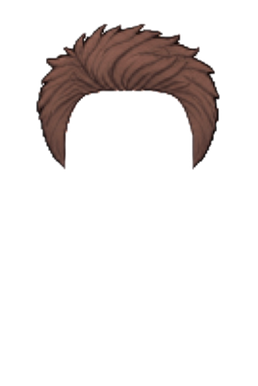
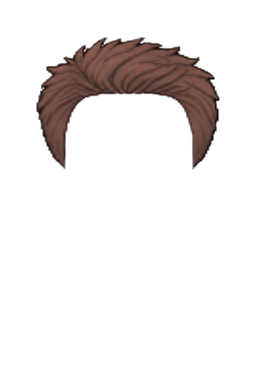
헤어 정수리 높이를 양 갈래 웨이브에 맞춤 (똥머리·모자·까까머리·모히칸 빼고, 이마 위만 늘이거나 줄여 얼굴 둘레는 그대로)
Claude-Session: https://claude.ai/code/session_015VxnKS3baGbwJXJNNp74ix

Changed region(s): [[0.155, 0.0622, 0.8682, 0.2798], [0.124, 0.2487, 0.155, 0.2798]]

diff --git a/avatar.js b/avatar.js
@@ -37,7 +37,7 @@ const AV_REQ = { pet: "pet-0", shoes: "shoes-1", eye: "eye-0", mouth: "mouth-0",
 const AV_ACC = []; // 장신구 칸 (아직 없음)
 const AV_TABS = [["eye", "눈"], ["mouth", "입"], ["cheek", "볼터치"], ["hair", "헤어"], ["top", "상의"], ["bottom", "하의"], ["full", "한벌"], ["shoes", "신발"], ["pet", "펫"]];
 const AV_FULL = new Set(["top-50","top-51","top-52","top-45","top-47","top-48","top-49","top-17","top-18","top-19","top-20","top-21","top-22","top-23","top-24","top-25","top-26","top-27","top-28","top-29","top-30","top-31","top-32"]); // 위아래 한 벌 옷: 입으면 하의를 안 그림. 가게에서는 '한벌' 칸
-const AV_V = "?v=36"; // 그림을 고치면 숫자를 올림 (브라우저에 남은 옛 그림 대신 새로 받게)
+const AV_V = "?v=37"; // 그림을 고치면 숫자를 올림 (브라우저에 남은 옛 그림 대신 새로 받게)
 const AV_HAT = new Set(["hair-12", "hair-13"]); // 모자·헬멧 (헤어 칸): 머리색을 안 칠함, 귀도 안 올림
 const AV_HIDE = new Set(["shoes-0"]); // 가게에 안 보이는 것 (맨발: 그림 없음)
 const avInTab = (it, k) => !AV_HIDE.has(it.id) && (k === "acc" ? AV_ACC.includes(it.slot) : k === "full" ? AV_FULL.has(it.id) : k === "top" ? it.slot === "top" && !AV_FULL.has(it.id) : it.slot === k); // 가게 칸에 보일 물건

diff --git a/index.html b/index.html
@@ -1668,7 +1668,7 @@
     <button class="danger" onclick="resetEverything()">모든 데이터 초기화</button>
   </section>
 </div>
-<script src="avatar.js?v=36"></script><!-- 아바타를 고치면 avatar.js의 AV_V와 같이 숫자를 올림 -->
+<script src="avatar.js?v=37"></script><!-- 아바타를 고치면 avatar.js의 AV_V와 같이 숫자를 올림 -->
 <script>
 setTimeout(() => document.body.classList.add("ready"), 2000); // 혹시 아래에서 오류가 나도 2초 뒤엔 카드를 보여 줌
 // 다른 창(듀얼 모니터)으로 뗀 카드: { 카드: { w: 창, c: 카드, mark: 보드에 돌아올 자리, np: 글자 도구 창 } }

diff --git a/student.html b/student.html
@@ -159,7 +159,7 @@
     </div>
   </div>
 </div>
-<script src="avatar.js?v=36"></script><!-- 아바타를 고치면 avatar.js의 AV_V와 같이 숫자를 올림 -->
+<script src="avatar.js?v=37"></script><!-- 아바타를 고치면 avatar.js의 AV_V와 같이 숫자를 올림 -->
 <script type="module">
 // 서버: classes/{반 코드} = { unit, prices } · classes/{반 코드}/kids/{번호}-{비밀번호} = { n, pt, av, wear, own, buys, kidAt } (이름 없음)
 // 점수는 선생님 보드만 바꿈. 가게 물건은 입어 보기만 하다가 저장할 때 삼(buys에 남김). 선생님 보드가 받아서 점수를 뺌

diff --git a/av/hairuser.py b/av/hairuser.py
@@ -88,3 +88,16 @@ for k in SHORT:
     h = Image.open(f'hair-{k}{suf}.png').convert('RGBA'); top = h.crop((0, 0, 258, 205)); bot = h.crop((0, 205, 258, 386)); bb = bot.getbbox()
     if not bb: continue
     bot = bot.crop((0, 0, 258, bb[3])).resize((258, int(bb[3] * .75)), Image.LANCZOS); o = Image.new('RGBA', (258, 386)); o.paste(top, (0, 0)); o.alpha_composite(bot, (0, 205)); o.save(f'hair-{k}{suf}.png', optimize=True)
+# 정수리 높이 맞추기: 정수리(가운데 열에서 가장 위) ~ y=110(이마 위) 사이만 세로로 늘이거나 줄여 정수리를 y=CROWN에 (얼굴 둘레·귀 구멍은 그대로)
+# 똥머리(0·1)·모자(12·13)·까까머리(16)·모히칸(23)은 빼고
+CROWN, PIN = 38, 110  # 정수리 = 양 갈래 웨이브 높이
+for k in [k for k in range(24) if k not in (0, 1, 12, 13, 16, 23)]:
+  for suf in ('', '-g'):
+    f = f'hair-{k}{suf}.png'
+    if not os.path.exists(f): continue
+    h = Image.open(f).convert('RGBA'); a = np.array(h)[..., 3] > 128; ys = np.nonzero(a[:, 110:148].any(1))[0]
+    if not len(ys): continue
+    top = ys.min(); y0 = np.nonzero(np.array(h)[..., 3].any(1))[0].min()  # 맨 위(삐죽 끝 포함)부터 함께 옮김
+    if abs(top - CROWN) < 3: continue
+    sc = (PIN - CROWN) / (PIN - top); seg = h.crop((0, y0, 258, PIN)); nh = max(1, round((PIN - y0) * sc))
+    o = Image.new('RGBA', (258, 386)); o.paste(h.crop((0, PIN, 258, 386)), (0, PIN)); o.alpha_composite(seg.resize((258, nh), Image.LANCZOS), (0, PIN - nh)); o.save(f, optimize=True)
